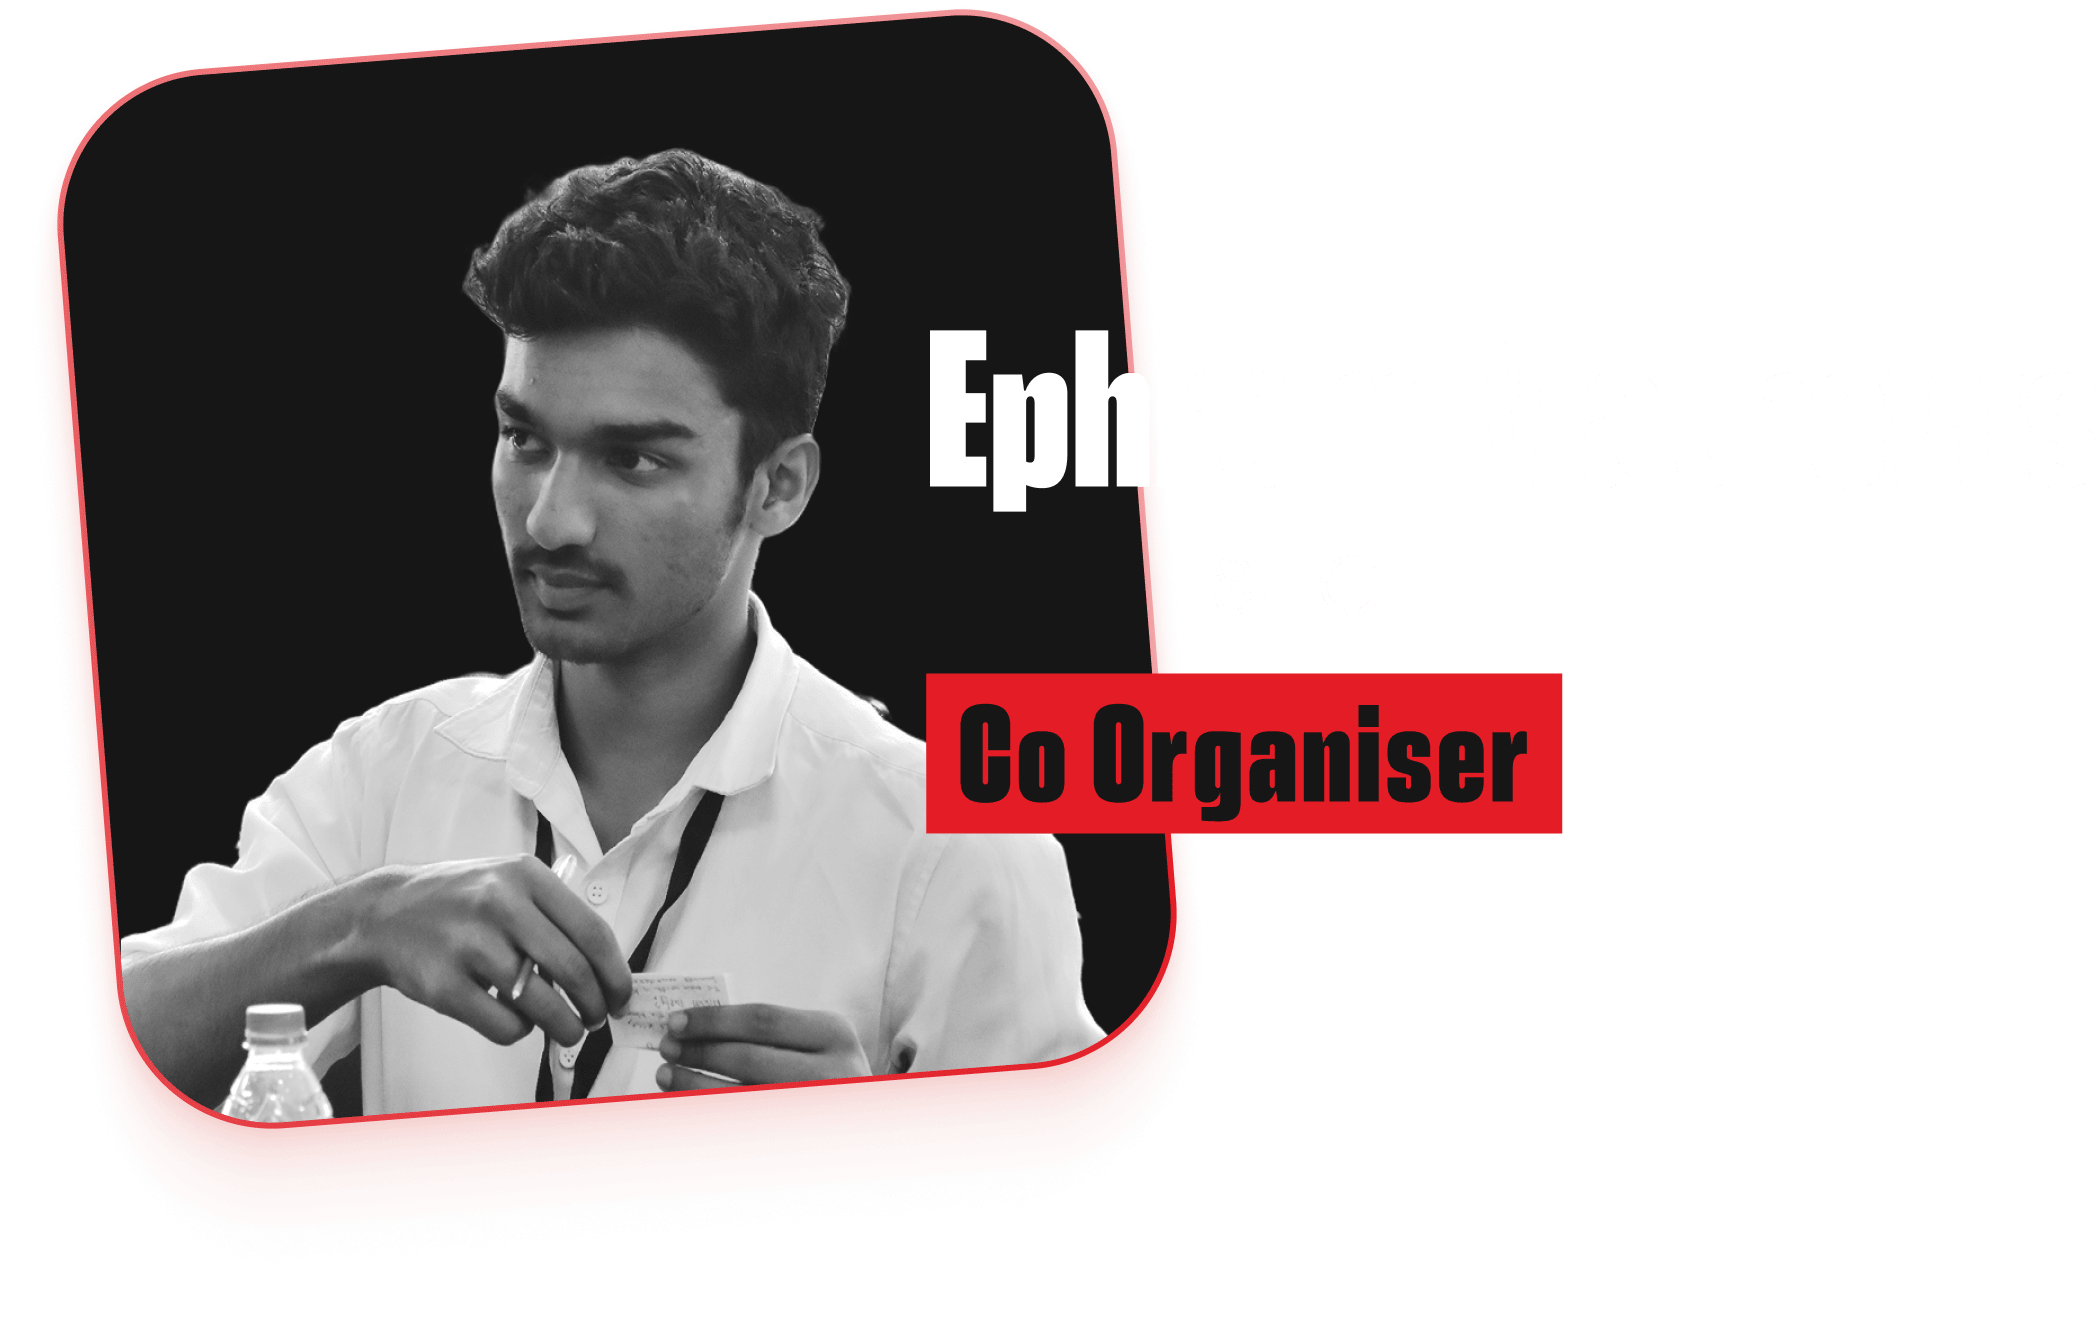
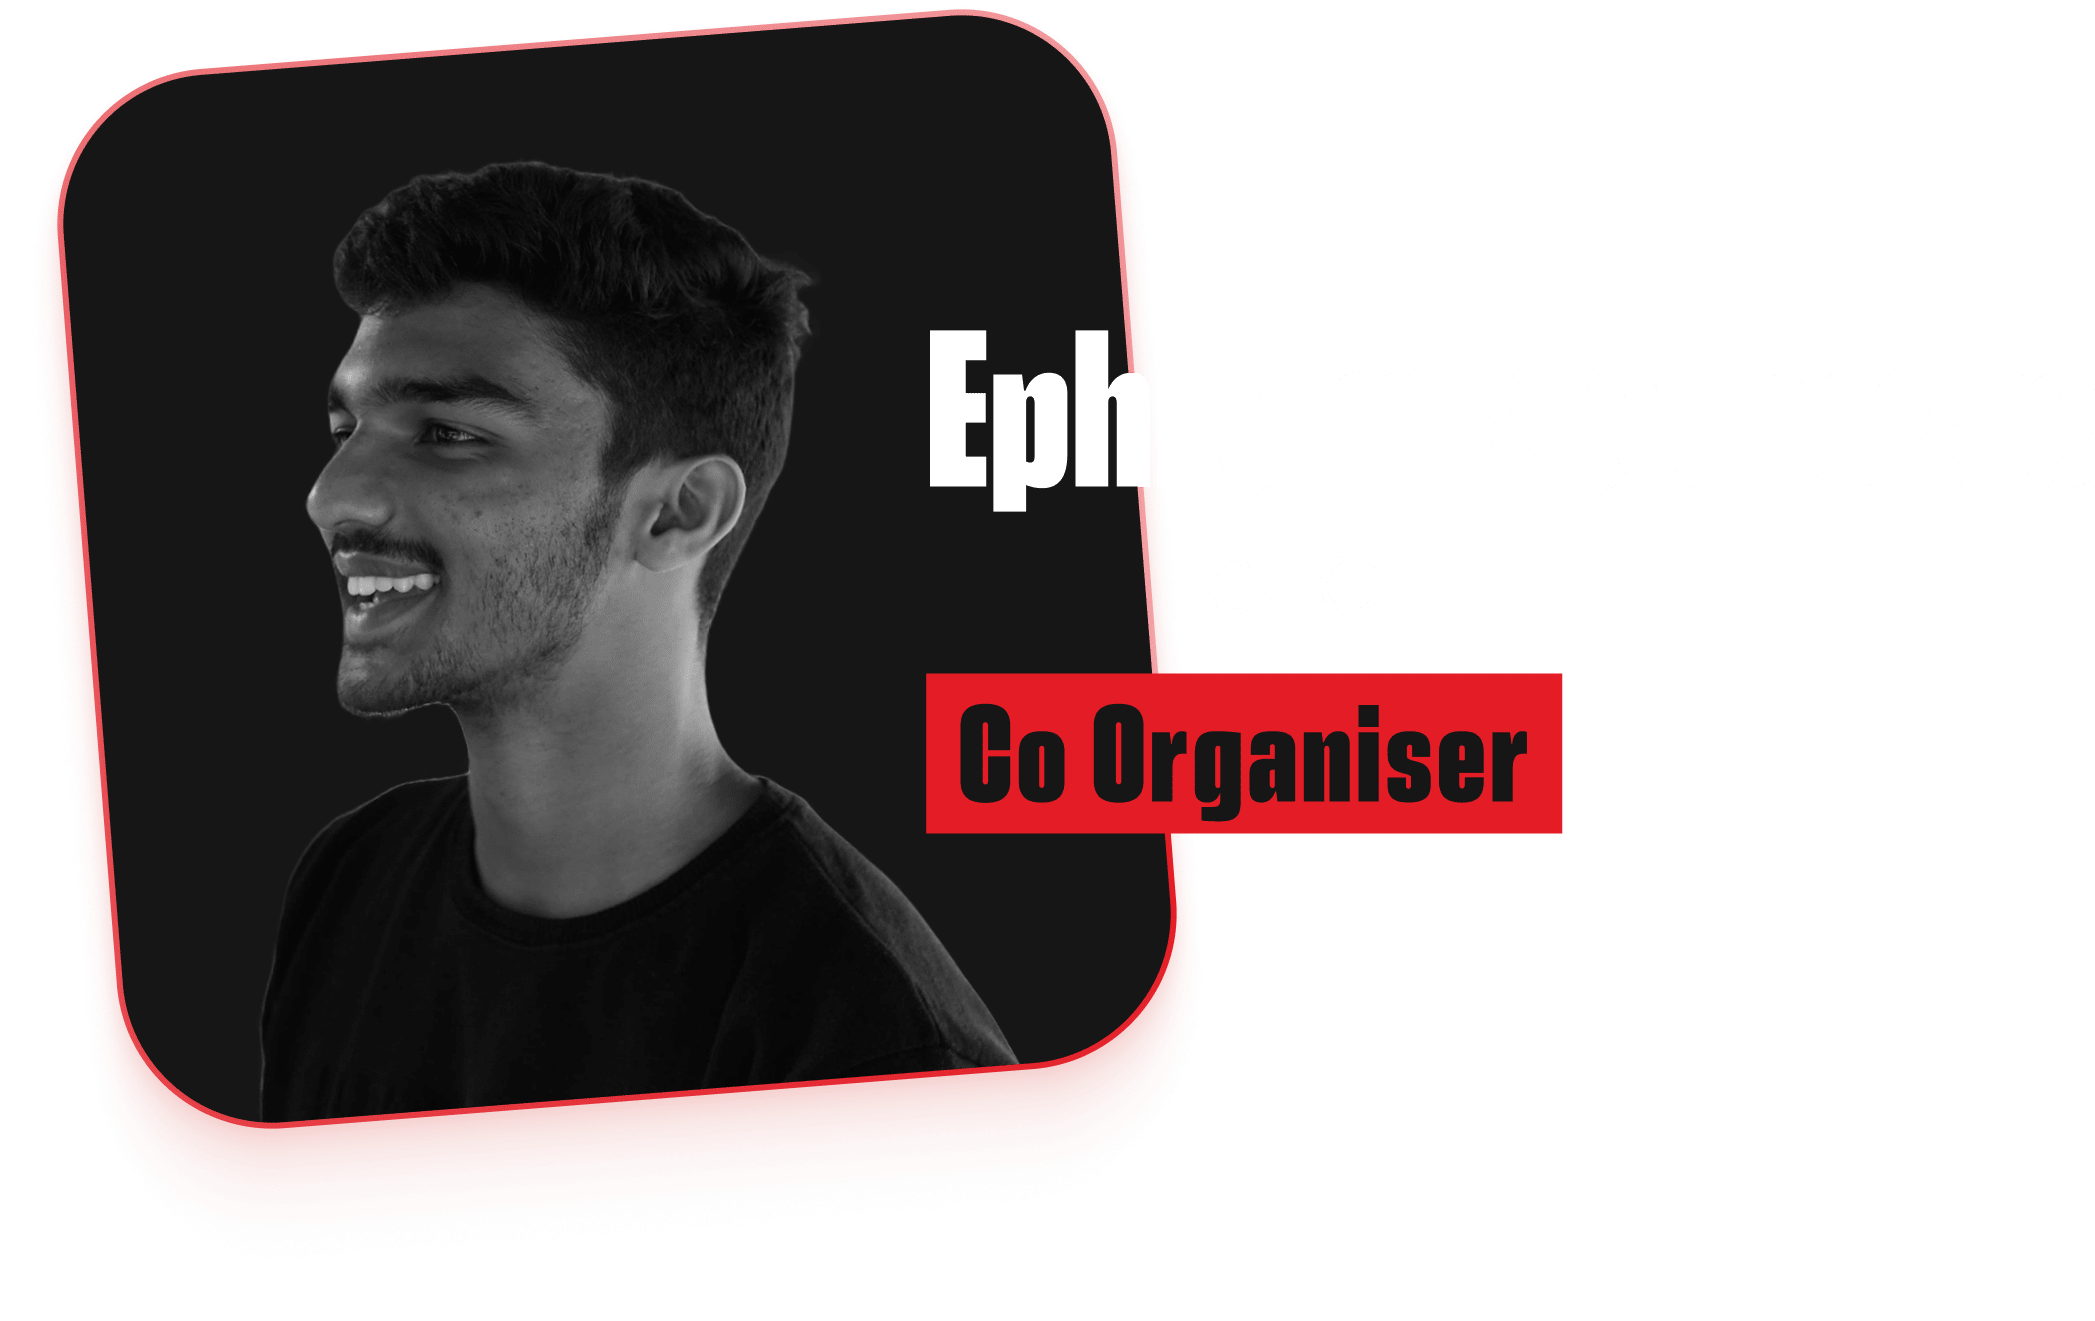
updated execom photos + changed styling

Changed region(s): [[0.031, 0.0931, 0.5274, 0.869], [0.1551, 0.1552, 0.1862, 0.1862]]

diff --git a/src/components/WebTeam.jsx b/src/components/WebTeam.jsx
@@ -12,14 +12,17 @@ import exe6 from "/public/assets/06.webp";
 import exe7 from "/public/assets/07.webp";
 import exe8 from "/public/assets/08.webp";
 import exe9 from "/public/assets/09.webp";
+import exe11 from "/public/assets/11.webp";
+import exe12 from "/public/assets/12.webp";
 import exe13 from "/public/assets/13.webp";
+import exe14 from "/public/assets/14.webp";
 import { DotLottieReact } from '@lottiefiles/dotlottie-react';
 
 
 const WebTeam = () => {
     const [isAnimationPlaying, setIsAnimationPlaying] = useState(false);
     const [fadeState, setFadeState] = useState('hidden'); // hidden, fadeIn, visible, fadeOut
-    
+
 
     const handleExe9Click = () => {
         if (!isAnimationPlaying) {
@@ -159,8 +162,17 @@ const WebTeam = () => {
                         <div className="flex flex-col ">
                             <img src={exe8} alt="Execom 8" className="h-[330px] w-[461px] " />
                         </div>
+                        <div className="flex flex-col  pt-56 ">
+                            <img src={exe11} alt="Execom 11" className="h-[330px] w-[461px] " />
+                        </div>
+                        <div className="flex flex-col">
+                            <img src={exe12} alt="Execom 12" className="h-[330px] w-[461px] " />
+                        </div>
                         <div className="flex flex-col pt-56">
                             <img src={exe13} alt="Execom 13" className="h-[330px] w-[461px] " />
+                        </div>
+                        <div className="flex flex-col ">
+                            <img src={exe14} alt="Execom 14" className="h-[330px] w-[577px] " />
                         </div>
                     </div>
                     {/* Duplicate set for seamless looping */}
@@ -209,6 +221,18 @@ const WebTeam = () => {
                         <div className="flex flex-col pt-56">
                             <img src={exe13} alt="Execom 13" className="h-[330px] w-[461px] " />
                         </div>
+                        <div className="flex flex-col  pt-56 ">
+                            <img src={exe11} alt="Execom 11" className="h-[330px] w-[461px] " />
+                        </div>
+                        <div className="flex flex-col">
+                            <img src={exe12} alt="Execom 12" className="h-[330px] w-[461px] " />
+                        </div>
+                        <div className="flex flex-col pt-56">
+                            <img src={exe13} alt="Execom 13" className="h-[330px] w-[461px] " />
+                        </div>
+                        <div className="flex flex-col ">
+                            <img src={exe14} alt="Execom 14" className="h-[330px] w-[577px] " />
+                        </div>
                     </div>
                 </div>
 
@@ -243,7 +267,10 @@ const WebTeam = () => {
                             <img src={exe6} alt="Execom 6" className="w-full h-auto" />
                             <img src={exe7} alt="Execom 7" className="w-full h-auto" />
                             <img src={exe8} alt="Execom 8" className="w-full h-auto" />
+                            <img src={exe11} alt="Execom 11" className="w-full h-auto" />
+                            <img src={exe12} alt="Execom 12" className="w-full h-auto" />
                             <img src={exe13} alt="Execom 13" className="w-full h-auto" />
+                            <img src={exe14} alt="Execom 14" className="w-full h-auto" />
                         </div>
                         {/* Duplicate set for seamless looping */}
                         <div className="flex flex-col gap-8 px-4">
@@ -272,7 +299,10 @@ const WebTeam = () => {
                             <img src={exe6} alt="Execom 6" className="w-full h-auto" />
                             <img src={exe7} alt="Execom 7" className="w-full h-auto" />
                             <img src={exe8} alt="Execom 8" className="w-full h-auto" />
+                            <img src={exe11} alt="Execom 11" className="w-full h-auto" />
+                            <img src={exe12} alt="Execom 12" className="w-full h-auto" />
                             <img src={exe13} alt="Execom 13" className="w-full h-auto" />
+                            <img src={exe14} alt="Execom 14" className="w-full h-auto" />
                         </div>
                     </div>
                 </div>

diff --git a/src/components/Countdown.jsx b/src/components/Countdown.jsx
@@ -1,14 +1,14 @@
 import React, { useState, useEffect } from 'react';
 
 // Configure event date - Using Date object directly for better timezone handling
-const EVENT_DATE = new Date(2025, 2, 8, 9, 0, 0); // March 2nd, 2025, 9:00 AM
+const EVENT_DATE = new Date(2025, 2, 8, 9, 0, 0); // March 8th, 2025, 9:00 AM
 
 const TimerUnit = ({ value, label }) => (
   <div className="flex flex-col justify-center items-center">
-    <div className="text-2xl sm:text-3xl md:text-5xl lg:text-7xl xl:text-9xl font-microgramma font-bold text-[#161616] leading-none sm:leading-normal">
+    <div className="text-4xl sm:text-3xl md:text-5xl lg:text-7xl xl:text-9xl font-microgramma font-bold text-[#161616] leading-none sm:leading-normal">
       {value.toString().padStart(2, '0')}
     </div>
-    <div className="text-xs sm:text-sm md:text-lg lg:text-2xl xl:text-4xl font-vanguard font-normal text-[#161616] leading-tight sm:leading-normal tracking-wider">
+    <div className="text-base sm:text-sm md:text-lg lg:text-2xl xl:text-4xl font-vanguard font-normal text-[#161616] leading-tight sm:leading-normal tracking-wider">
       {label}
     </div>
   </div>
@@ -89,9 +89,9 @@ const Countdown = () => {
   }, []);
 
   return (
-    <div className="container mx-auto px-4 sm:px-6 md:px-8 lg:px-20 pt-8 sm:pt-12 md:pt-16 lg:pt-20">
+    <div className="container mx-auto px-4 sm:px-6 md:px-8 lg:px-20 pt-8 sm:pt-12 md:pt-12 lg:pt-12  sm:pb-5 md:pb-5 lg:pb-5">
       {/* Countdown Timer */}
-      <div className="w-full max-w-[95%] mx-auto pt-2 sm:pt-4 md:pt-6 lg:pt-[29px] px-2 py-2 sm:px-4 md:px-6 lg:px-8 mb-4 sm:mb-6 md:mb-8 
+      <div className="w-full max-w-[95%] mx-auto sm:pt-4 md:pt-6 lg:pt-[29px] px-2 md:py-2 py-2 sm:px-4 md:px-6 lg:px-8 mb-8 sm:mb-6 md:mb-8 
                     bg-[rgba(250,250,250,0.50)] rounded-lg sm:rounded-[20px] 
                     border-2 sm:border-3 md:border-4 lg:border-[5px] border-[#E31C25] 
                     backdrop-blur-[6.4px] flex justify-center items-center gap-1 sm:gap-2">
@@ -105,7 +105,7 @@ const Countdown = () => {
       </div>
       
       {/* Hurry Up Text Row */}
-      <div className="flex justify-center items-center -mt-2 sm:-mt-3 md:-mt-4 pt-3 sm:pt-4 md:pt-5">
+      <div className="flex justify-center items-center -mt-2 sm:-mt-3 md:-mt-4 pt-3 sm:pt-4 md:pt-10">
         <HurryUpAnimation />
       </div>
     </div>

diff --git a/src/components/About.jsx b/src/components/About.jsx
@@ -24,9 +24,9 @@ export const ScrollingText = ({ className = "", dark = false, direction = "left"
 export const About = () => {
   const stats = [
     { number: "5", text: "Events" },
-    { number: "50", text: "Speakers" },
-    { number: "100", text: "Active Members" },
-    { number: "50", text: "Community Members" },
+    { number: "25", text: "Speakers" },
+    { number: "20", text: "Community Members" },
+    { number: "50", text: "Active Members" },
   ];
 
   return (
